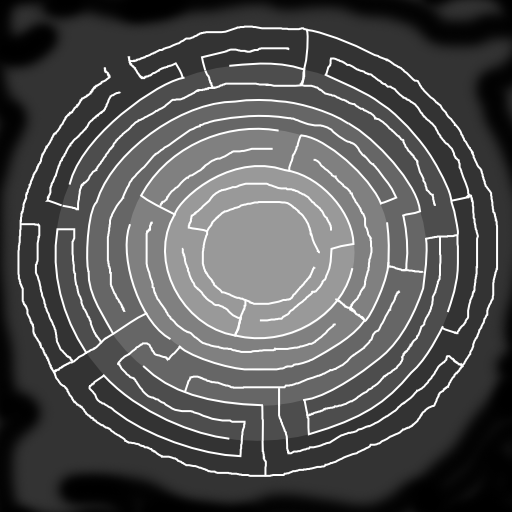
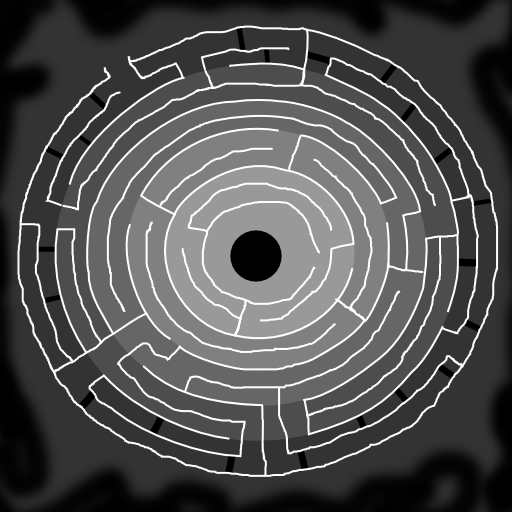
"lava" pits

diff --git a/src/UClient/UClient.java b/src/UClient/UClient.java
@@ -3,6 +3,7 @@ package UClient; /**
  */
 
 import com.jme3.app.SimpleApplication;
+import com.jme3.asset.TextureKey;
 import com.jme3.audio.AudioNode;
 import com.jme3.bullet.BulletAppState;
 import com.jme3.bullet.collision.shapes.CollisionShape;
@@ -27,10 +28,12 @@ import com.jme3.light.Light;
 import com.jme3.math.*;
 import com.jme3.post.FilterPostProcessor;
 import com.jme3.post.filters.BloomFilter;
+import com.jme3.renderer.queue.RenderQueue;
 import com.jme3.scene.CameraNode;
 import com.jme3.scene.Geometry;
 import com.jme3.scene.Node;
 import com.jme3.scene.control.CameraControl;
+import com.jme3.scene.shape.Quad;
 import com.jme3.scene.shape.Sphere;
 import com.jme3.shadow.DirectionalLightShadowFilter;
 import com.jme3.shadow.DirectionalLightShadowRenderer;
@@ -42,6 +45,7 @@ import com.jme3.terrain.heightmap.ImageBasedHeightMap;
 import com.jme3.texture.Texture;
 import com.jme3.texture.Texture.WrapMode;
 import com.jme3.util.TangentBinormalGenerator;
+import com.jme3.water.SimpleWaterProcessor;
 import com.jme3.water.WaterFilter;
 import jme3utilities.sky.SkyControl;
 import jme3utilities.sky.Updater;
@@ -273,7 +277,7 @@ public class UClient extends SimpleApplication
     else water.setWaterHeight(water.getWaterHeight() + WATER_HEIGHT_PLAYER_RATE);
 
     // Tilt Map, to be controlled by EEG gyroscope
-    if (!mapTiltLeft && !mapTiltRight && !mapTiltBack && !mapTiltForward) // EEG not rotating, move back to normal
+    /*if (!mapTiltLeft && !mapTiltRight && !mapTiltBack && !mapTiltForward) // EEG not rotating, move back to normal
     {
       if (tiltMapX < 0 && tiltMapZ > 0)
       {
@@ -324,40 +328,88 @@ public class UClient extends SimpleApplication
     else if (mapTiltRight) tiltMapX -= MAP_TILT_RATE;
     else if (mapTiltForward) tiltMapZ += MAP_TILT_RATE;
     else if (mapTiltBack) tiltMapZ -= MAP_TILT_RATE;
-    //if (tiltMapX != 0 || tiltMapZ != 0) tiltMap();
+    if (tiltMapX != 0 || tiltMapZ != 0) tiltMap();*/
 
     boolean onGround = playerNode.isOnGround();
     Vector3f worldCenter = terrain.getWorldTranslation();
     worldCenter.setY(playerNode.getWorldTranslation().getY());
     Vector3f centerVect = worldCenter.subtract(playerNode.getWorldTranslation());
     centerVect.normalize();
-    System.out.println(centerVect);
 
-    if (mapTiltLeft)
+    // Diagonal Gravity - Doesn't seem to be necessary
+    /*if (mapTiltLeft && mapTiltBack)
+    {
+      CollisionResults coll = new CollisionResults();
+      Ray colRay = new Ray(playerNode.getLocalTranslation(), centerVect);
+      terrain.collideWith(colRay, coll);
+      if (coll.size() > 0 && coll.getClosestCollision().getDistance() > sphereShape.getRadius() + .1f)
+      {
+        System.out.println("UClient: simpleUpdate - not on left, dist: " + coll.getClosestCollision().getDistance());
+        onGround = false;
+      }
+      playerControl.setGravity(new Vector3f(50, 0, 50));
+    }
+    else if (mapTiltRight && mapTiltBack)
+    {
+      CollisionResults coll = new CollisionResults();
+      Ray colRay = new Ray(playerNode.getLocalTranslation(), centerVect);
+      terrain.collideWith(colRay, coll);
+      if (coll.size() > 0 && coll.getClosestCollision().getDistance() > sphereShape.getRadius() + .1f)
+      {
+        System.out.println("UClient: simpleUpdate - not on left, dist: " + coll.getClosestCollision().getDistance());
+        onGround = false;
+      }
+      playerControl.setGravity(new Vector3f(-50, 0, 50));
+    }
+    else if (mapTiltLeft && mapTiltForward)
+    {
+      CollisionResults coll = new CollisionResults();
+      Ray colRay = new Ray(playerNode.getLocalTranslation(), centerVect);
+      terrain.collideWith(colRay, coll);
+      if (coll.size() > 0 && coll.getClosestCollision().getDistance() > sphereShape.getRadius() + .1f)
+      {
+        System.out.println("UClient: simpleUpdate - not on left, dist: " + coll.getClosestCollision().getDistance());
+        onGround = false;
+      }
+      playerControl.setGravity(new Vector3f(50, 0, -50));
+    }
+    else if (mapTiltRight && mapTiltForward)
+    {
+      CollisionResults coll = new CollisionResults();
+      Ray colRay = new Ray(playerNode.getLocalTranslation(), centerVect);
+      terrain.collideWith(colRay, coll);
+      if (coll.size() > 0 && coll.getClosestCollision().getDistance() > sphereShape.getRadius() + .1f)
+      {
+        System.out.println("UClient: simpleUpdate - not on left, dist: " + coll.getClosestCollision().getDistance());
+        onGround = false;
+      }
+      playerControl.setGravity(new Vector3f(-50, 0, -50));
+    }
+    else*/ if (mapTiltLeft)
     {
       CollisionResults leftColl = new CollisionResults();
       Vector3f leftDir = new Vector3f(1,0,0);
-      Ray rayL = new Ray(playerNode.getLocalTranslation(), leftDir);
+      Ray rayL = new Ray(playerNode.getLocalTranslation(), centerVect);
       terrain.collideWith(rayL, leftColl);
       if (leftColl.size() > 0 && leftColl.getClosestCollision().getDistance() > sphereShape.getRadius() + .1f)
       {
-        System.out.println("UClient: simpleUpdate - not on left, dist: " + leftColl.getClosestCollision().getDistance());
+        //System.out.println("UClient: simpleUpdate - not on left, dist: " + leftColl.getClosestCollision().getDistance());
         onGround = false;
       }
-      playerControl.setGravity(new Vector3f(-50, 0, 0));
+      playerControl.setGravity(new Vector3f(50, 0, 0));
     }
     else if (mapTiltRight)
     {
       CollisionResults rightColl = new CollisionResults();
       Vector3f rightDir = new Vector3f(-1,0,0);
-      Ray rayR = new Ray(playerNode.getLocalTranslation(), rightDir);
+      Ray rayR = new Ray(playerNode.getLocalTranslation(), centerVect);
       terrain.collideWith(rayR, rightColl);
       if (rightColl.size() > 0 && rightColl.getClosestCollision().getDistance() > sphereShape.getRadius() + .1f)
       {
-        System.out.println("UClient: simpleUpdate - not on right, dist: " + rightColl.getClosestCollision().getDistance());
+        //System.out.println("UClient: simpleUpdate - not on right, dist: " + rightColl.getClosestCollision().getDistance());
         onGround = false;
       }
-      playerControl.setGravity(new Vector3f(50, 0, 0));
+      playerControl.setGravity(new Vector3f(-50, 0, 0));
     }
     else if (mapTiltForward)
     {
@@ -367,7 +419,7 @@ public class UClient extends SimpleApplication
       terrain.collideWith(rayF, foreColl);
       if ((foreColl.size() > 0 && foreColl.getClosestCollision().getDistance() > sphereShape.getRadius() + .1f) || foreColl.size() == 0)
       {
-        if (foreColl.size() > 0) System.out.println("UClient: simpleUpdate - not on fore, dist: " + foreColl.getClosestCollision().getDistance());
+        //if (foreColl.size() > 0) System.out.println("UClient: simpleUpdate - not on fore, dist: " + foreColl.getClosestCollision().getDistance());
         onGround = false;
       }
       playerControl.setGravity(new Vector3f(0, 0, -50));
@@ -377,12 +429,12 @@ public class UClient extends SimpleApplication
       System.out.println("back");
       CollisionResults backColl = new CollisionResults();
       Vector3f backDir = new Vector3f(0,0,1);
-      Ray rayB = new Ray(playerNode.getLocalTranslation(), backDir);
+      Ray rayB = new Ray(playerNode.getLocalTranslation(), centerVect);
       terrain.collideWith(rayB, backColl);
       if ((backColl.size() > 0 && backColl.getClosestCollision().getDistance() > sphereShape.getRadius() + .1f) || backColl.size() == 0)
       {
-        if (backColl.size() > 0) System.out.println("UClient: simpleUpdate - not on back, dist: " + backColl.getClosestCollision().getDistance());
-        else System.out.println("not touching ground");
+        //if (backColl.size() > 0) System.out.println("UClient: simpleUpdate - not on back, dist: " + backColl.getClosestCollision().getDistance());
+        //else System.out.println("not touching ground");
         onGround = false;
       }
       playerControl.setGravity(new Vector3f(0, 0, 50));
@@ -393,9 +445,9 @@ public class UClient extends SimpleApplication
       Vector3f downDir = new Vector3f(0,-1,0);
       Ray rayD = new Ray(playerNode.getLocalTranslation(), downDir);
       terrain.collideWith(rayD, downColl);
-      if (downColl.size() > 0 && downColl.getClosestCollision().getDistance() > sphereShape.getRadius() + 3f)
+      if (downColl.size() > 0 && downColl.getClosestCollision().getDistance() > sphereShape.getRadius() + .1f)
       {
-        System.out.println("UClient: simpleUpdate - not on down, dist: " + downColl.getClosestCollision().getDistance());
+        //System.out.println("UClient: simpleUpdate - not on down, dist: " + downColl.getClosestCollision().getDistance());
         onGround = false;
       }
       playerControl.setGravity(new Vector3f(0, -50, 0));
@@ -405,10 +457,8 @@ public class UClient extends SimpleApplication
     playerNode.setIsOnGround(onGround);
 
     // Control Movement and Player Rotation
-    camDir.set(cam.getDirection()).multLocal(20f); //20f for BetterCharacterControl
-    //if (camDir.getY() > 0 || camDir.getY() < 0) camDir.setZ(0); // Keep from flying into space when camera angle looking skyward
-    //if (tiltY > -1.0f && (camLeft.getZ() > 0 || camLeft.getZ() < 0)) camLeft.setZ(0);
-    camLeft.set(cam.getLeft()).multLocal(20f); //20f for BetterCharacterControl
+    camDir.set(cam.getDirection()).multLocal(20f);
+    camLeft.set(cam.getLeft()).multLocal(20f);
     walkDirection.set(0, 0, 0);
 
     if (left || right || up || down) rotation += 4;
@@ -472,6 +522,8 @@ public class UClient extends SimpleApplication
       }
     }
 
+    System.out.println(playerNode.getWorldTranslation());
+
     //move the audio with the camera
     listener.setLocation(cam.getLocation());
     listener.setRotation(cam.getRotation());
@@ -482,24 +534,7 @@ public class UClient extends SimpleApplication
     mapTilt = new Quaternion().fromAngleAxis(FastMath.DEG_TO_RAD * (float) tiltMapX/100, new Vector3f(0, 0, 1.0f));
     Quaternion q = new Quaternion().fromAngleAxis(FastMath.DEG_TO_RAD * (float) tiltMapZ/100, new Vector3f(1.0f, 0, 0));
     Quaternion m = mapTilt.mult(q);
-    //landscape.setPhysicsRotation(m);
-    //System.out.println("land: " + landscape.getPhysicsRotation());
-    //terrain.setLocalRotation(m);
-    //System.out.println("terrain: " + terrain.getLocalRotation());
-    //camNode.rotate(tiltMapX/100,0,tiltMapZ/100);
-    float tiltX = tiltMapX/100;
-    float tiltZ = tiltMapZ/100;
-    tiltY = -9.81f+Math.max(Math.abs(tiltMapX/100),Math.abs(tiltMapZ/100));
-    System.out.println((float)tiltMapX/100 + ", " + tiltY + ", " + (float)tiltMapZ/100);
-    if (tiltY > 0) tiltY = 0;
-    playerControl.setGravity(new Vector3f(-10, 0, 0));
-    //if (tiltX)
-    /*playerControl.setGravity(new Vector3f(tiltMapX / 10,
-      tiltY,
-      tiltMapZ / 10));
-    /*bulletAppState.getPhysicsSpace().setGravity(new Vector3f(tiltMapX / 100,
-      tiltY,
-      tiltMapZ / 100));*/
+    landscape.setPhysicsRotation(m);
   }
 
   private void moveBall(float x, float z, Vector3f c)
@@ -571,7 +606,7 @@ public class UClient extends SimpleApplication
     playerNode.attachChild(playerG);
 
 
-    /* Red Balls
+    /* Red Player Ball
     playerG = new Geometry("Sphere", playerSphere);
     Material mat = new Material(assetManager, "Common/MatDefs/Light/Lighting.j3md");
     mat.setBoolean("UseMaterialColors", true);
@@ -582,24 +617,11 @@ public class UClient extends SimpleApplication
     playerNode.attachChild(playerG);
     */
 
-    //LayeredMaterial im = LayeredMaterial(assetManager, 60);
-
     sphereShape = new SphereCollisionShape(PLAYER_SPHERE_START_RADIUS);
 
     //BetterCharacteControl moves, but bounces and falls through ground
     playerControl = new PlayerControl(PLAYER_SPHERE_START_RADIUS, PLAYER_SPHERE_START_RADIUS, 5.0f);
     playerControl.setJumpForce(new Vector3f(100f,100f,0));
-    //playerControl.setGravity(new Vector3f(0,10,0));
-    //playerControl.setApplyPhysicsLocal(true);
-    //playerControl.setSpatial(playerG);
-    //playerControl = new CharacterControl(sphereShape, 1.0f); // increase step height to avoid falling through world
-    //playerControl.setJumpSpeed(20);
-    //playerControl.setFallSpeed(30);
-    //playerControl.setGravity(30);
-    //playerControl.setApplyPhysicsLocal(true);
-    //playerControl.setEnabled(true);
-    //playerControl.setSpatial(playerG);
-    //playerControl.setPhysicsLocation(new Vector3f(-340, 80, -400));
     playerNode.setLocalTranslation(new Vector3f(-340, 80, -400));
     playerNode.addControl(playerControl);
     bulletAppState.getPhysicsSpace().add(playerControl);
@@ -610,38 +632,64 @@ public class UClient extends SimpleApplication
   {
     /** Create terrain material and load four textures into it. */
     mat_terrain = new Material(assetManager,
-      "Common/MatDefs/Terrain/Terrain.j3md");
+      "Common/MatDefs/Terrain/TerrainLighting.j3md");
+    mat_terrain.setBoolean("useTriPlanarMapping", false);
+    mat_terrain.setFloat("Shininess", 0.0f);
 
     /** Add ALPHA map (for red-blue-green coded splat textures) */
-    mat_terrain.setTexture("Alpha", assetManager.loadTexture(
+    mat_terrain.setTexture("AlphaMap", assetManager.loadTexture(
       "assets/terrains/tieredmaze1color.png"));
+    mat_terrain.setTexture("AlphaMap_1", assetManager.loadTexture(
+      "assets/terrains/tieredmaze1color2.jpg"));
 
-    /** Add GRASS texture into the red layer (Tex1). */
+    /** Add GRASS texture into the red layer*/
     Texture grass = assetManager.loadTexture(
       "Textures/Terrain/splat/grass.jpg");
     grass.setWrap(WrapMode.Repeat);
-    mat_terrain.setTexture("Tex1", grass);
-    mat_terrain.setFloat("Tex1Scale", 64f);
+    mat_terrain.setTexture("DiffuseMap", grass);
+    mat_terrain.setFloat("DiffuseMap_0_scale", 64f);
 
-    /** Add DIRT texture into the green layer (Tex2) */
+    /** Add DIRT texture into the green layer*/
     Texture dirt = assetManager.loadTexture(
       "Textures/Terrain/splat/dirt.jpg");
     dirt.setWrap(WrapMode.Repeat);
-    mat_terrain.setTexture("Tex2", dirt);
-    mat_terrain.setFloat("Tex2Scale", 32f);
+    mat_terrain.setTexture("DiffuseMap_1", dirt);
+    mat_terrain.setFloat("DiffuseMap_1_scale", 32f);
 
-    /** Add ROAD texture into the blue layer (Tex3) */
+    /** Add ROAD texture into the blue layer */
     Texture rock = assetManager.loadTexture(
       "Textures/Terrain/splat/road.jpg");
     rock.setWrap(WrapMode.Repeat);
-    mat_terrain.setTexture("Tex3", rock);
-    mat_terrain.setFloat("Tex3Scale", 128f);
+    mat_terrain.setTexture("DiffuseMap_2", rock);
+    mat_terrain.setFloat("DiffuseMap_2_scale", 128f);
+
+    /** Add Lava Rocks into alpha layer**/
+    Texture lava = assetManager.loadTexture(
+      "assets/textures/lava_texture-sm.jpg");
+    lava.setWrap(WrapMode.Repeat);
+    mat_terrain.setTexture("DiffuseMap_3", lava);
+    mat_terrain.setFloat("DiffuseMap_3_scale", 128f);
 
     /** Create the height map */
-    AbstractHeightMap heightmap = null;
-    Texture heightMapImage = assetManager.loadTexture(
-      "assets/terrains/tieredmaze1.png");
-    heightmap = new ImageBasedHeightMap(heightMapImage.getImage());
+    //AbstractHeightMap heightmap = null;
+    //Texture heightMapImage = assetManager.loadTexture(
+    //  "assets/terrains/tieredmaze1.png");
+    //heightmap = new ImageBasedHeightMap(heightMapImage.getImage());
+    //TextureKey hmKey = new TextureKey("assets/terrains/tieredmaze1.png", false);
+    Texture heightMapImage = assetManager.loadTexture("assets/terrains/tieredmaze1.png");
+
+    AbstractHeightMap heightMap = null;
+
+    try
+    {
+      heightMap = new ImageBasedHeightMap(heightMapImage.getImage());
+      heightMap.load();
+      //heightMap.smooth(0.9f, 1);
+    }
+    catch (Exception e)
+    {
+      e.printStackTrace();
+    }
 
     // Height Map Randomization
         /*HillHeightMap heightmap = null;
@@ -652,7 +700,7 @@ public class UClient extends SimpleApplication
             ex.printStackTrace();
         }*/
 
-    heightmap.load();
+    //heightmap.load();
 
     /** We have prepared material and heightmap.
      * Now we create the actual terrain:
@@ -663,7 +711,7 @@ public class UClient extends SimpleApplication
      * -We supply the prepared heightmap itself.
      */
     int patchSize = 65;
-    terrain = new TerrainQuad("my terrain", patchSize, 513, heightmap.getHeightMap());
+    terrain = new TerrainQuad("my terrain", patchSize, 513, heightMap.getHeightMap());
 
     /** We give the terrain its material, position & scale it, and attach it. */
     terrain.setMaterial(mat_terrain);
